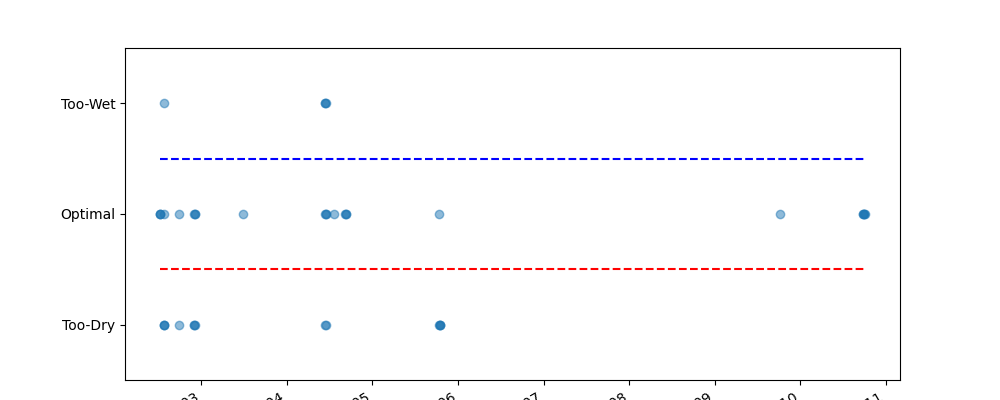
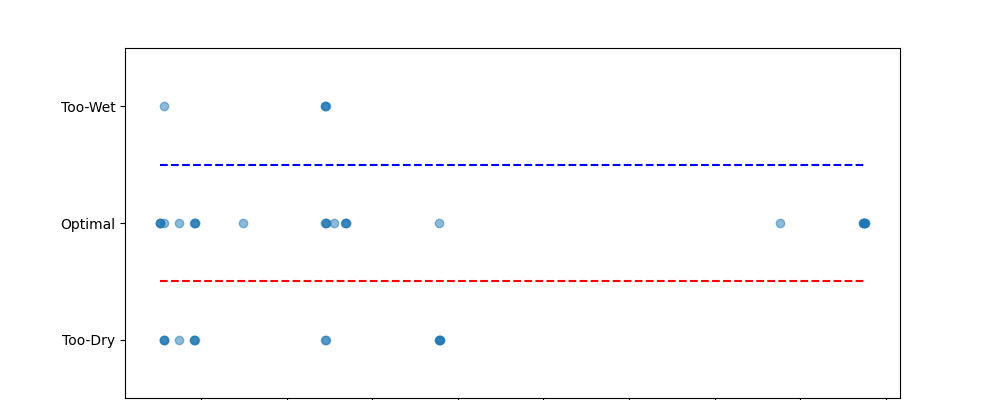
Update

diff --git a/format_index.py b/format_index.py
@@ -25,7 +25,7 @@ def get_moisture_data():
     plt.ylim((-0.25, 1.25))
     plt.gca().set_yticklabels(["Too-Dry" if y == 0 else ("Optimal" if y == 0.5 else ("Too-Wet" if y == 1 else "")) for y in current_values])
     plt.gcf().autofmt_xdate()
-    plt.subplots_adjust(bottom=.05)
+    plt.subplots_adjust(bottom=.005)
 
     plt.savefig('moisture-trend.png')
     current_moisture = ("low", "optimal", 'high')[int(2 * y[-1])]
